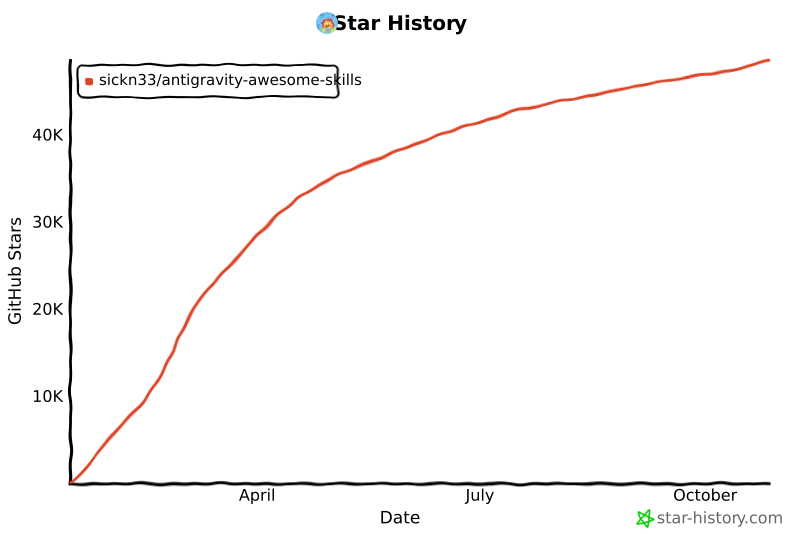
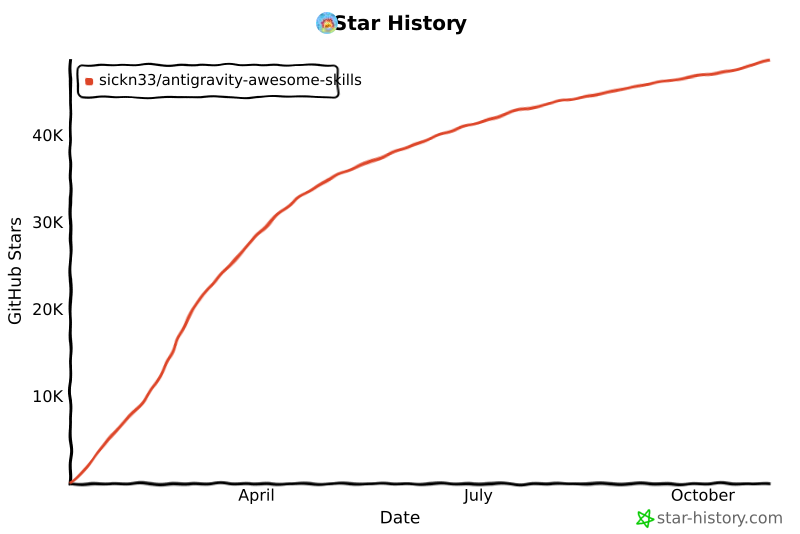
chore: update star history chart

diff --git a/README.md b/README.md
@@ -534,14 +534,14 @@ We officially thank the following contributors for their help in making this rep
 ## Star History
 
 <a href="https://www.star-history.com/#sickn33/antigravity-awesome-skills&type=date&legend=top-left">
- <img alt="Star History Chart" src="https://api.star-history.com/svg?repos=sickn33/antigravity-awesome-skills&type=date&legend=top-left&cache_bust=202610281225" />
+ <img alt="Star History Chart" src="https://api.star-history.com/svg?repos=sickn33/antigravity-awesome-skills&type=date&legend=top-left&cache_bust=202610291234" />
 </a>
 
 <a href="https://www.star-history.com/sickn33/antigravity-awesome-skills">
  <picture>
-   <source media="(prefers-color-scheme: dark)" srcset="https://api.star-history.com/chart?repos=sickn33/antigravity-awesome-skills&style=landscape1&theme=dark&cache_bust=202610281225" />
-   <source media="(prefers-color-scheme: light)" srcset="https://api.star-history.com/chart?repos=sickn33/antigravity-awesome-skills&style=landscape1&cache_bust=202610281225" />
-   <img alt="Star History Chart" src="https://api.star-history.com/chart?repos=sickn33/antigravity-awesome-skills&style=landscape1&cache_bust=202610281225" />
+   <source media="(prefers-color-scheme: dark)" srcset="https://api.star-history.com/chart?repos=sickn33/antigravity-awesome-skills&style=landscape1&theme=dark&cache_bust=202610291234" />
+   <source media="(prefers-color-scheme: light)" srcset="https://api.star-history.com/chart?repos=sickn33/antigravity-awesome-skills&style=landscape1&cache_bust=202610291234" />
+   <img alt="Star History Chart" src="https://api.star-history.com/chart?repos=sickn33/antigravity-awesome-skills&style=landscape1&cache_bust=202610291234" />
  </picture>
 </a>
 
